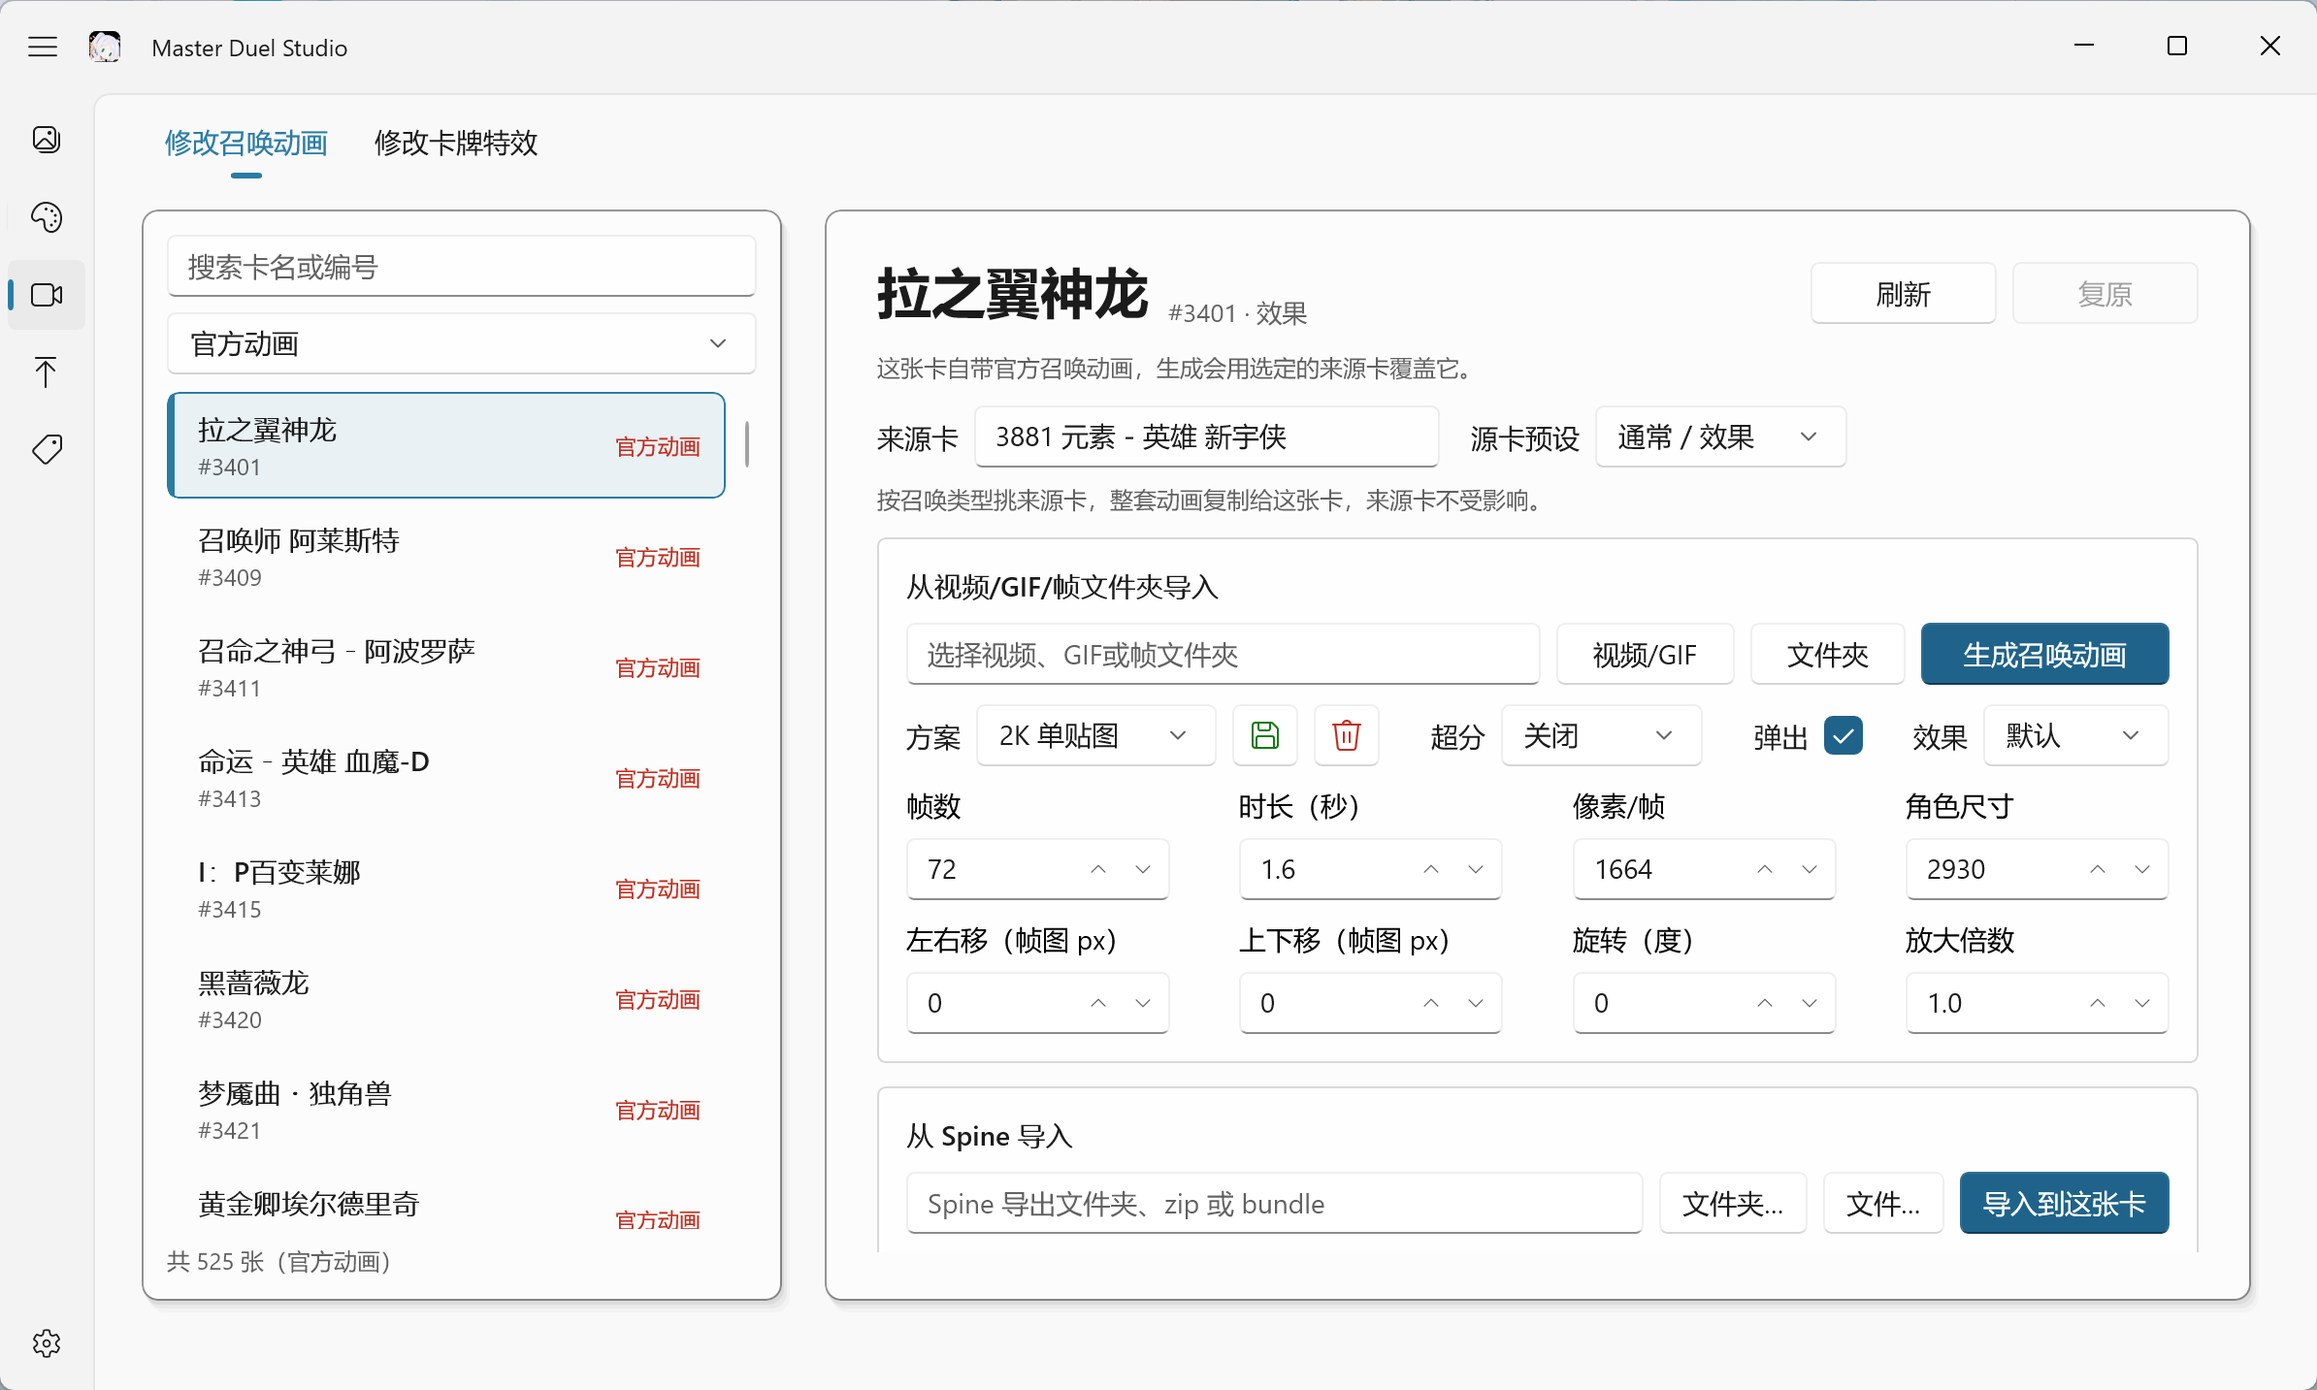
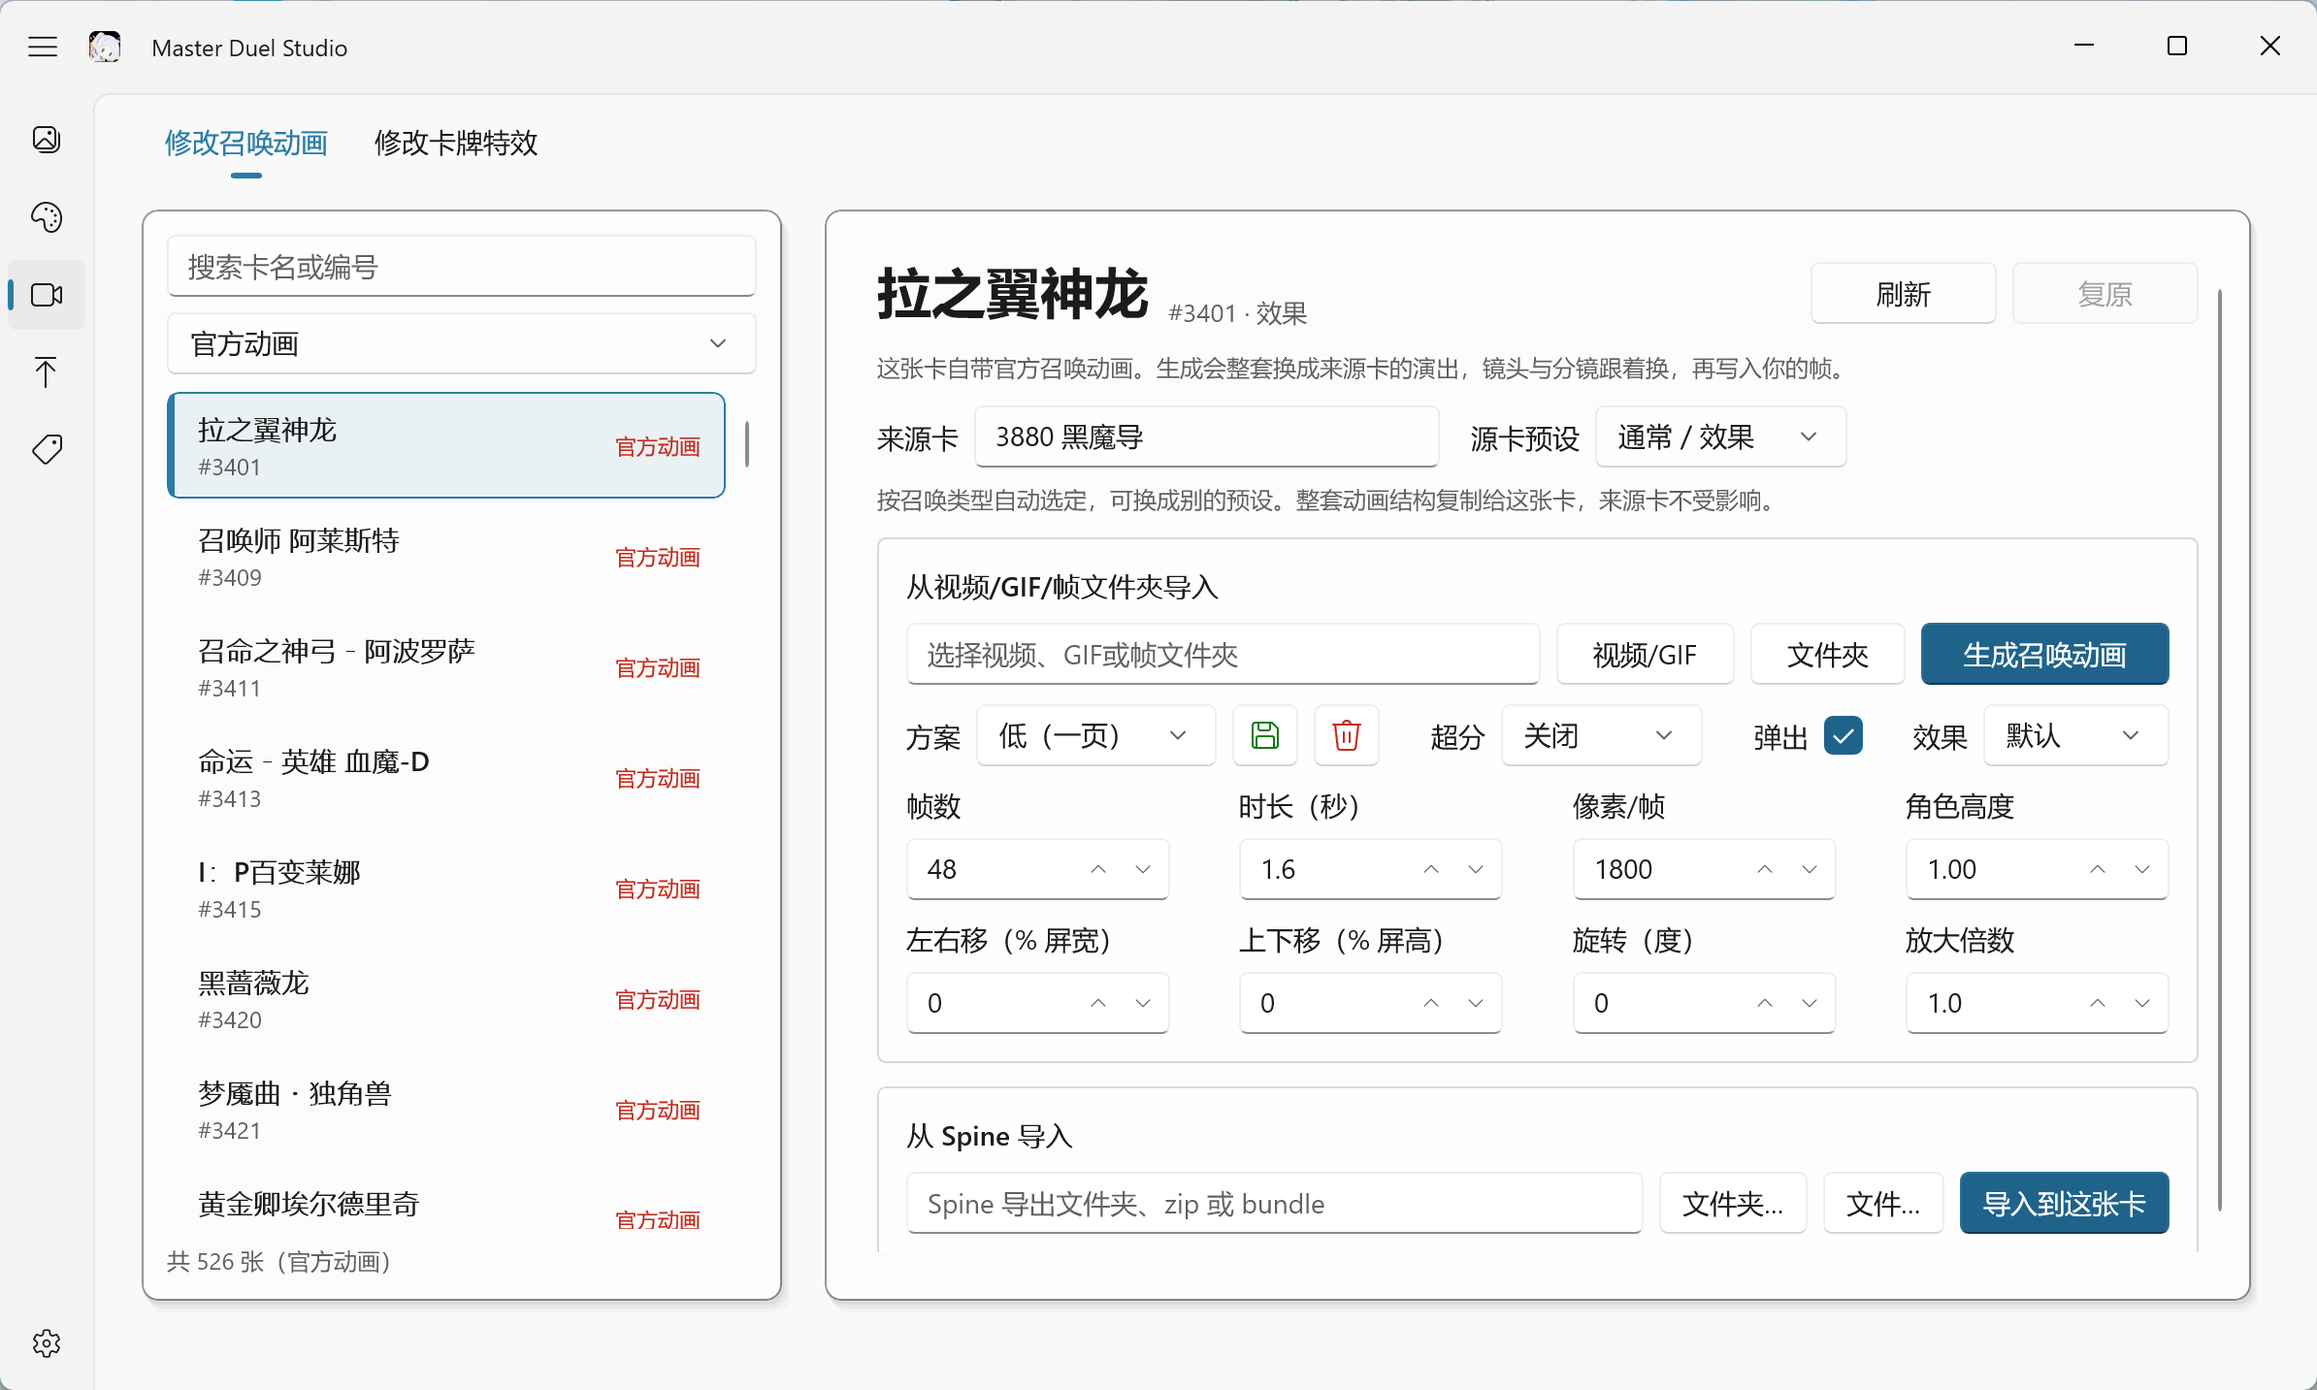
更新 README：补充预览与特殊卡说明，同步最新界面截图

diff --git a/README.md b/README.md
@@ -1,6 +1,6 @@
 # 🎴 Master Duel Studio
 
-《游戏王 Master Duel》的本地修改工具。召唤动画、发动特效、超框卡图、大厅壁纸，一个 WinUI 3 程序全部搞定，**每一张卡的改动都能单独复原**。
+《游戏王 Master Duel》的本地修改工具。召唤动画、发动特效、超框卡图、大厅壁纸，一个 WinUI 3 程序全部搞定，**每一张卡的改动都能单独复原**，生成完还能在软件里先播一遍再决定要不要写进游戏。
 
 > 仅支持 PC 版（Steam），Windows 10 1809 及以上。
 > 常规改动写入你自己的账号数据目录；替换大厅背景时会写入游戏的 `data.unity3d`，写入前会自动留一份原图。
@@ -25,12 +25,13 @@
 | 功能 | 做什么 | 写到哪里 |
 |---|---|---|
 | 🖼 **超框卡图** | 把卡面做成超框：主体跨出卡框，五种边框效果可选 | 账号目录 |
-| 🎞 **召唤动画** | 素材可来自视频 / GIF / 帧序列（自动去背）或 Spine 骨架。官方动画卡原地替换骨架与贴图，其余用来源卡克隆一套 | 账号目录 |
-| 💥 **卡牌特效** | 发动特效：借用游戏里现成的一套，或用视频自制，可换音效 | 账号目录 |
+| 🎞 **召唤动画** | 素材可来自视频 / GIF / 帧序列（自动去背）或 Spine 骨架。视频导入会把来源卡那套结构整体克隆过来；Spine 导入是原地换骨架与贴图 | 账号目录 |
+| 💥 **卡牌特效** | 发动特效：借用游戏里现成的一套，或用视频自制，可换音效。播融合召唤演出的特殊卡不在其列 | 账号目录 |
+| 👀 **预览** | 生成完在软件里按真实时长播一遍，动画与特效各留一份缓存，写完再看不满意可以重来 | 不写游戏文件 |
 | 🌄 **壁纸** | 大厅壁纸与大厅背景替换 | 账号目录 + `data.unity3d` |
 | 📦 **分享** | 把做过的卡按卡打包给别人，或安装别人的整合包 | 按包内容决定 |
 | 🕘 **历史** | 按卡记录三类改动与每一次复原，附操作日志 | — |
-| ⚙ **设置** | 游戏目录、账号切换、备注名、预演开关、游戏更新后重新同步 | — |
+| ⚙ **设置** | 游戏目录、账号切换、备注名、预演开关、预览缓存清理、游戏更新后重新同步 | — |
 | 🧪 **预演** | 只走流程不写文件，本次运行有效 | — |
 
 ---
@@ -78,7 +79,7 @@
 
 ## 📖 页面详解
 
-左侧导航共五个页面：**超框卡图 / 召唤动画 / 卡牌特效 / 分享 / 历史**，另有设置与壁纸。
+左侧导航五格：**超框卡图 / 大厅壁纸 / 召唤动画**（同一页里用「修改召唤动画」「修改卡牌特效」两个标签切换）**/ 分享 / 历史**，设置在最下面。
 
 ### 🖼 超框卡图
 
@@ -121,18 +122,19 @@
 
 | 状态 | 含义 | 生成时怎么处理 |
 |---|---|---|
-| 官方动画 | 游戏自带一套 | 原地替换骨架与贴图，相机、挂点、雾效光效轨道全部保留 |
-| 官方动画★ | 动画整份借自底图那张卡，自己没有高清资源 | 用选定的来源卡克隆一套高清底盘 |
+| 官方动画 | 游戏自带一套 | 视频导入把整套结构换成来源卡的；Spine 导入原地替换骨架与贴图 |
+| 官方动画★ | 动画整份借自另一张卡，自己没有高清资源 | 克隆来源卡那一套 |
 | 自改动画 | 已经是工具做的版本 | 先点「复原」才能再生成 |
-| 无动画 | 游戏里没有这一套 | 用选定的来源卡克隆一套 |
+| 无动画 | 游戏里没有这一套 | 克隆来源卡那一套 |
 
 **来源卡**
 
-- 只有「官方动画★」和「无动画」会显示这一栏。官方动画是原地改、自改动画用的是它自己那份，这两类选了来源卡也不生效，所以不显示
+- 官方动画、官方动画★、无动画三档都显示这一栏。自改动画已经生成过，来源卡不再参与，这一栏收起
+- 视频导入**一律克隆**：来源卡的 prefab、相机、Timeline 分镜整套复制到目标卡名下，**来源卡本身一个字节都不动**。所以三种状态出来的画法一致，差别只在原本有没有东西要被覆盖
+- Spine 导入换的是骨架与贴图，来源卡只用来取卡种模板
 - 默认按召唤类型自动填：通常/效果 3880、融合 3435、仪式 15640、同调 8121、超量 12328、连接 13088
 - 也可以手动换。不同召唤类型的演出结构不一样（相机位置、挂点、Timeline 上挂的雾效光效），用同类型的来源卡克隆，出来的观感更接近那种召唤方式本来的样子
-- 克隆是把来源卡那一套复制到目标卡名下，**来源卡本身一个字节都不动**。来源卡自己的动画也不允许改，选中它会有提示
-- ★ 与无动画的差别只在于「原本有没有东西要覆盖」，克隆用的是同一套做法
+- 这六张来源卡自己被锁住，不允许改动画：它们的结构一旦漂移，之后从它们克隆出来的卡会跟着继承问题
 
 **两档内置方案**
 
@@ -143,7 +145,7 @@
 | 帧数 | 48 | 72 |
 | 像素/帧 | 1800 | 2560 |
 | 时长 | 1.6 秒 | 1.6 秒 |
-| 角色尺寸 | 2930 | 2930 |
+| 角色高度 | 1.00（一屏） | 1.00（一屏） |
 | 贴图 | 一页 7×7，约 158 MB | 两页 6×6，约 471 MB |
 | 播放帧率 | 30 fps | 45 fps |
 | 默认选中 | ✓ | |
@@ -158,22 +160,25 @@
 
 | 参数 | 说明 | 范围 / 默认 |
 |---|---|---|
-| 帧数 | 总共切多少帧 | 4 ~ 200，默认随方案（低 48 / 高 72） |
+| 帧数 | 总共切多少帧 | 4 ~ 300，默认随方案（低 48 / 高 72） |
 | 时长（秒） | 动画在游戏里播多久 | 0.4 ~ 15，默认 1.6 |
 | 像素/帧 | 单帧贴图的边长，决定清晰度上限 | 128 ~ 4096，默认随方案（低 1800 / 高 2560） |
-| 角色尺寸（骨骼宽） | 角色在屏幕上的大小，4800 约铺满 16:9 屏宽 | 500 ~ 8000，默认 2930 |
-| 左右移 / 上下移 | 以帧图像素计的位移 | 任意，默认 0 |
+| 角色高度 | 角色有多高，按屏幕高度的比例算，1.00 就是一屏 | 0.2 ~ 2.0，默认 1.00 |
+| 左右移（% 屏宽） | 填 25 就是屏宽的四分之一，正数向右 | −75 ~ 75，默认 0 |
+| 上下移（% 屏高） | 填 25 就是屏高的四分之一，正数向上 | −75 ~ 75，默认 0 |
 | 旋转（度） | 整体旋转，正数逆时针 | −180 ~ 180，默认 0 |
-| 放大倍数 | 额外缩放 | 0.2 ~ 4.0，默认 1.1 |
+| 放大倍数 | 额外缩放 | 0.2 ~ 4.0，默认 1.0 |
 | 超分 | 先放大再用 Real-ESRGAN 修细节 | 关闭 / ×2 / ×4，默认关闭 |
-| 缩放曲线 | 出现时的缩放与淡入按帧走关键帧 | 默认 / 自定义 |
+| 弹出 | 出现时的缩放与淡入按帧走关键帧 | 默认 / 自定义 |
 | 方案 | 把上面这组参数存成预设，下次一键套用 | 可保存、可删除 |
 
+> 位移按屏幕比例算，跟分辨率、角色高度都无关，换个显示器不用重调。
+>
 > 素材怎么处理是自动判断的：自带透明通道就直接用；检测到纯色幕布（绿、蓝、品红、红）会自动去背；两样都没有就整段原样保留（全屏）。
 >
-> 「像素/帧」与「角色尺寸」要搭配着调：像素/帧大致等于角色在屏幕上的宽度时最划算，再高只是浪费体积。一页贴图装不下会自动分两页，两页还装不下会提示减帧数或减边长。
+> 「像素/帧」与「角色高度」要搭配着调：像素/帧大致等于角色在屏幕上的宽度时最划算，再高只是浪费体积。一页贴图装不下会自动分两页，两页还装不下会提示减帧数或减边长。
 
-**缩放曲线（「默认」那条）**
+**弹出曲线（选「默认」时）**
 
 | 时间 | 缩放 | 说明 |
 |---|---|---|
@@ -181,7 +186,7 @@
 | 0.14 秒 | 55% | 起势 |
 | 0.35 秒 | 92% | 接近到位 |
 | 0.54 秒 | 108% | 过冲，最「弹」的一下 |
-| 0.72 秒 | 76% | 收回来，形成「duang」的收缩感 |
+| 0.73 秒 | 76% | 收回来，形成「duang」的收缩感 |
 | 1.60 秒 | 90% | 停在九成大小，切回卡面时轻微弹大 |
 
 - 曲线里的帧号只表示比例，**改总帧数不会改节奏**：48 帧和 72 帧都在 0.54 秒冲顶
@@ -190,6 +195,15 @@
 **② Spine 导入**
 
 支持 Spine 导出的文件夹、zip 或 bundle。3.x 的骨架会自动转成游戏用的 4.x，来源卡按卡种自动取模板，不用手选。
+
+**预览**
+
+生成完成后，卡列表那一行会多出一个播放按钮。它只出现在「自改」这一档：预览读的就是生成时留下的那份缓存。
+
+- 浮层播放器按生成时设定的时长与帧数播放，角上显示当前帧与总帧数
+- 浮层挂在主窗口上，切到别的页面也能直接叫出来，不用先回到动画页
+- 动画与特效各存一套缓存，可以在设置页「预览缓存」里看占用、按卡删掉
+- 复原时这份缓存会一起删除，之后想再看就得重新生成
 
 **生成与复原**
 
@@ -209,10 +223,23 @@
 
 | 参数 | 说明 | 范围 / 默认 |
 |---|---|---|
-| 帧数 | 切多少帧 | 4 ~ 200，默认 72 |
-| 每帧高度（px） | 单帧高度，宽度按素材原比例（不裁切） | 128 ~ 2048，默认 1080 |
-| 时长（秒） | 播放多久 | 0.4 ~ 15，默认 1.6 |
+| 帧数 | 切多少帧 | 4 ~ 300，默认 60 |
+| 每帧高度（px） | 单帧贴图高度，只影响清晰度与体积，宽度按素材原比例 | 720 / 1080 / 1440，默认 1080 |
+| 时长（秒） | 整段特效播多久 | 0.4 ~ 15，默认 2 |
+| 画面高度 | 特效在屏幕上有多高，1.0 = 一屏，宽度按素材比例 | 0.1 ~ 1.5，默认 0.50 |
+| 左右移（% 屏宽） | 填 25 就是屏宽的四分之一，正数向右 | −75 ~ 75，默认 0 |
+| 上下移（% 屏高） | 填 25 就是屏高的四分之一，正数向上 | −75 ~ 75，默认 0 |
+| 旋转（度） | 整体旋转，正数逆时针 | −180 ~ 180，默认 0 |
+| 超分 | 先用超分把每帧放大再缩回，边缘更锐 | 关闭 / ×2 / ×4，默认关闭 |
 | 用视频自带的声音 | 勾上就把视频音轨一起写进去 | 默认勾选 |
+
+**特殊卡**
+
+播的是融合召唤演出、没有独立发动特效的那批卡，工具不给生成区：融合、超融合、召唤魔术这类。它们也进不了整合包，导出时会跳过，安装别人的包时同样拦下。强写进去游戏也不会播，所以不如直接挡住。
+
+**预览**
+
+和动画一样，生成完列表那一行会出现播放按钮（只在「自改特效」这一档），点开按真实时长播一遍。特效与动画的预览缓存分开存，复原时一起删除。
 
 **音效**（独立一块，常显）
 
@@ -252,6 +279,8 @@
 
 > 整合包**不含音效**。音效写的是整个音效槽，跨机器会互相干扰，所以不打包；装到的卡会用对方机器上现有的声音。
 
+> 包里会带齐 manifest 依赖的整条闭包，对方没打开过那张卡、盘上没有对应资源也能装。文件已经不在盘上的记录（游戏校验或复原清掉了）与播融合演出的特殊卡会被跳过，不会让整包导出失败。
+
 **安装**
 
 | 参数 | 说明 |
@@ -274,6 +303,8 @@
 | 悬停 | 来源文件、改动了几个文件、这条是否还能复原 |
 
 - 撤销入口不在这一页：超框、动画、特效各自在自己页面点「复原」
+- 一次复原撤掉几类改动，被撤掉的那几条就各自回放一行，时间在原操作那一刻
+- 音效不单独成行：它只是特效的配套改动，只算进那次复原的文件数里
 - 复原会连同建在它上面的后续改动一起撤掉，同一张卡的链式操作请从后往前撤
 - 导出整合包这类不改游戏的操作不进历史
 
@@ -288,6 +319,7 @@
 | 低清纹理兼容 | 生成动画时把低清（SD）那份也一起重写，只写一页贴图。关掉后再生成会把低清那份恢复成官方；整合包里开与不开的卡混装时，只有开了的卡在低画质下生效。生成进行中不能改 |
 | 重新同步 | 游戏更新后一键补回：召唤动画、发动特效、卡图登记、超框登记表 |
 | 运行组件 | 三个可选组件在这里按需下载：AI 抠图模型、视频超分、Spine 转换器。装好前不影响其他功能 |
+| 预览缓存 | 动画与特效的预览帧图占了多少、按卡清理。复原时对应那份会自动删掉 |
 | 日志目录 | 出问题时可从这里取日志；历史页也能一键复制当前运行日志 |
 
 ---
@@ -333,7 +365,13 @@
 这张卡生成时没开「低清纹理兼容」（在设置页）。低清那份没被写过，游戏切低画质就用官方原版。要低画质也播自己的，打开开关重新生成一次。
 
 **生成出来的角色太大或太小？**
-「角色尺寸」是骨骼宽度，2930 是常用档，4800 约铺满 16:9 屏宽。改完不用重新切帧，重新生成即可。
+用「角色高度」调，它按屏幕高度的比例算：1.00 就是一屏。改完不用重新切帧，重新生成即可。
+
+**特效页有卡点不动，标着「特殊卡」？**
+那几张播的是融合召唤演出（融合、超融合、召唤魔术这类），游戏里没有可替换的发动特效。硬写进去也不会播，所以工具直接锁住，导出与安装整合包时同样跳过。
+
+**列表里的播放按钮不出现，或者点了说预览已删除？**
+预览缓存只在生成成功后才有，复原时会被删掉；按钮也只出现在「自改」这一档。没有缓存就重新生成一次。占用多少在设置页「预览缓存」里看。
 
 ---
 
